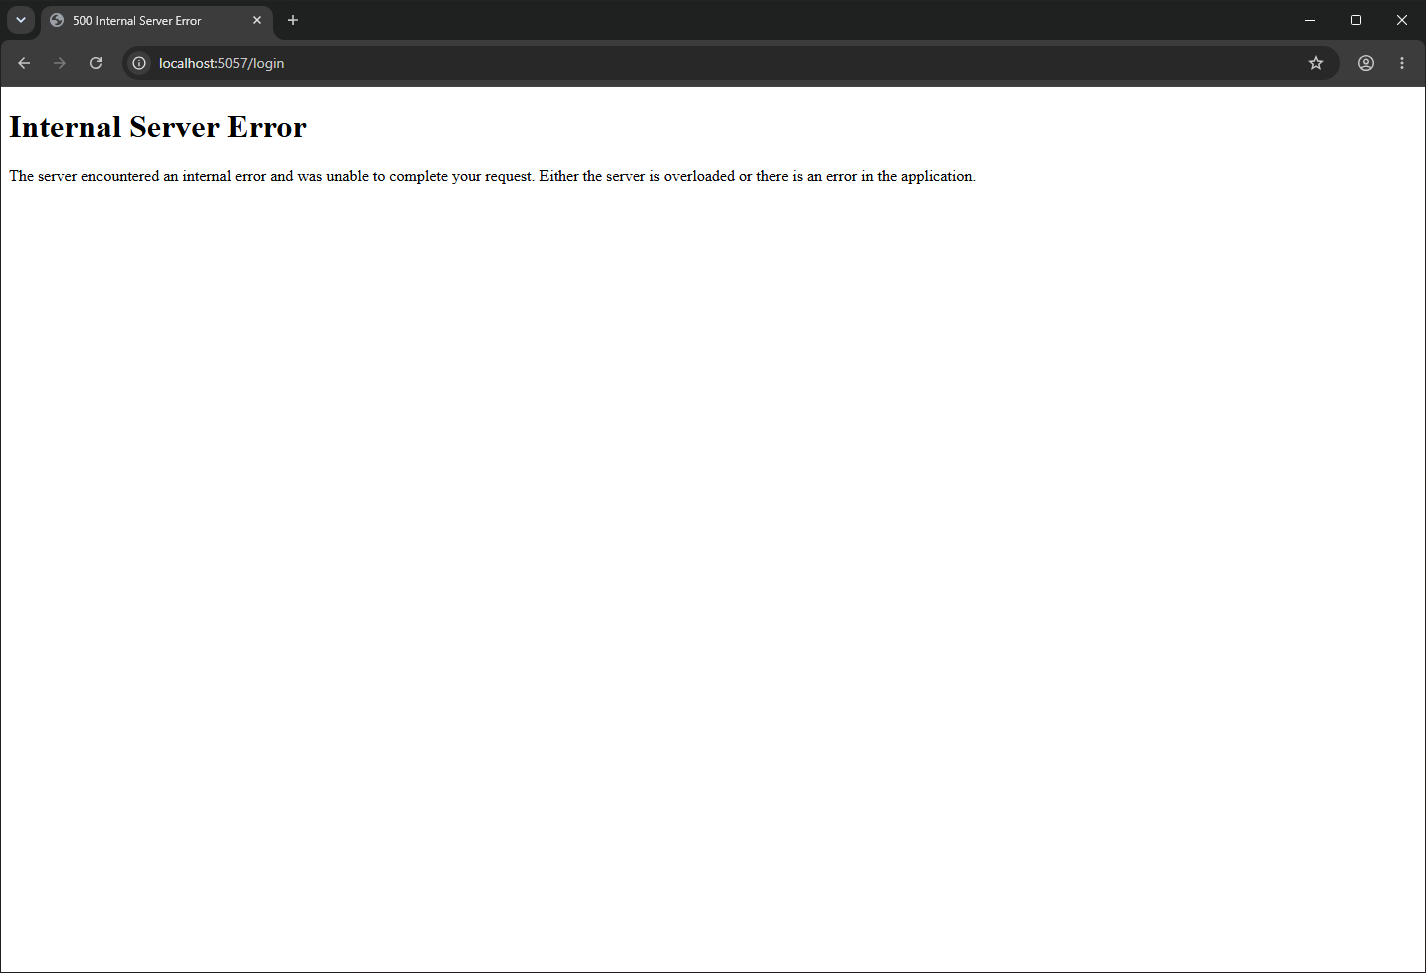
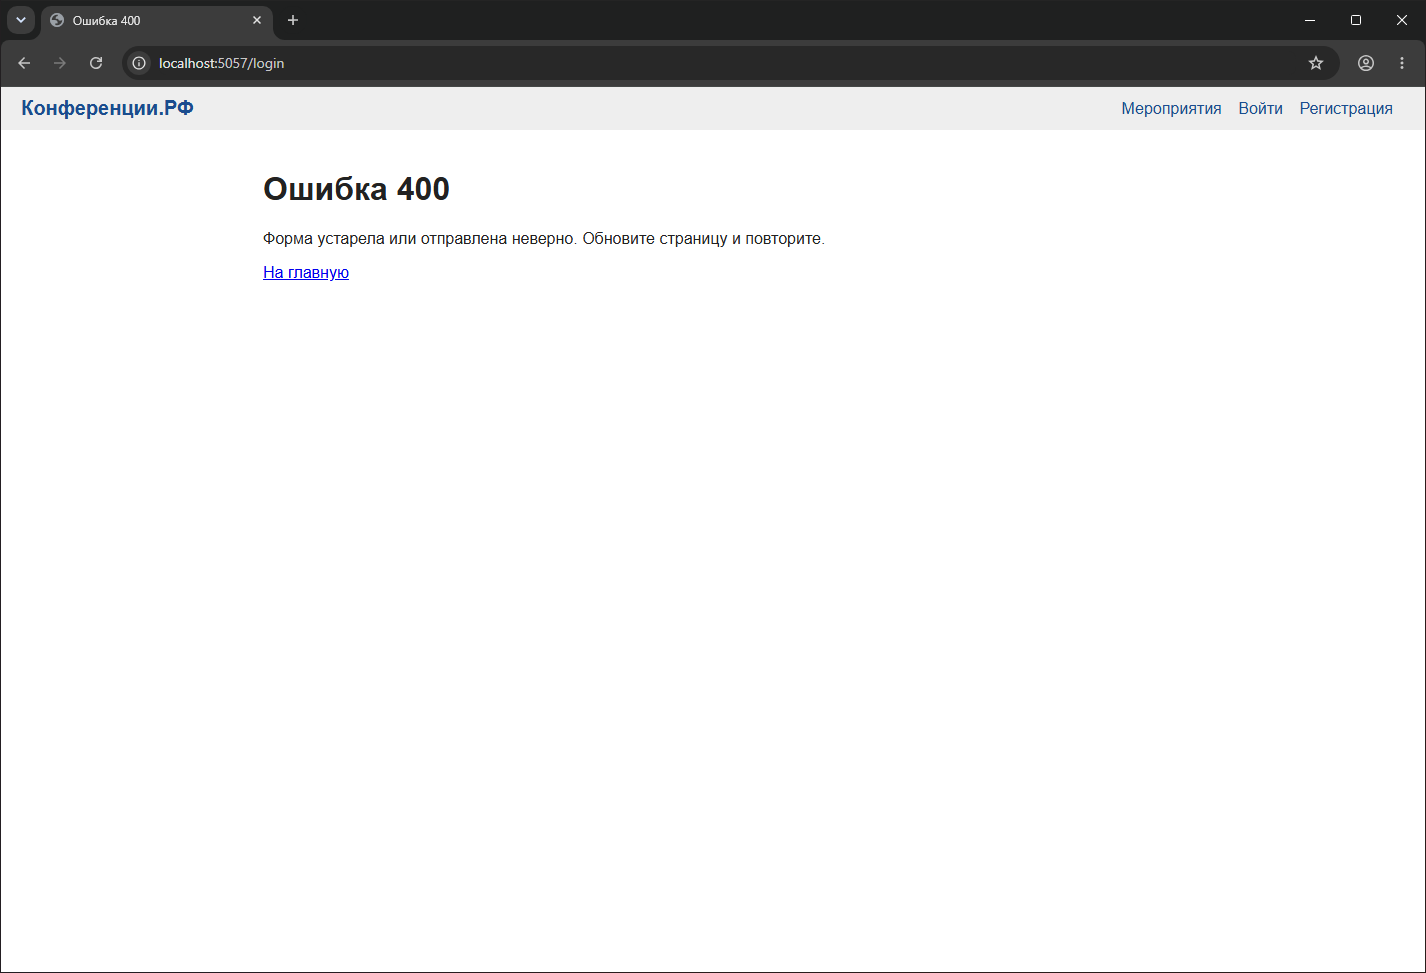
Практика 4: описание и скриншоты

Changed region(s): [[0.0, 0.0925, 0.6788, 0.3083], [0.7714, 0.0925, 0.9874, 0.1233], [0.0617, 0.0, 0.1234, 0.0308]]

diff --git a/Практика 04. Подсистема безопасности ИС/README.md b/Практика 04. Подсистема безопасности ИС/README.md
@@ -1,0 +1,26 @@
+# Практическая работа № 4. Разработка подсистем безопасности ИС
+
+Код подсистемы: `app/security.py`, проверки полей `app/validators.py`, обработчики ошибок в `app/__init__.py`.
+
+| Требование | Как сделано | Скриншот |
+|---|---|---|
+| Хеширование паролей | `generate_password_hash` (scrypt), в базе хранится только хеш | `7_пароли_в_базе_хеш.png` |
+| Защита от SQL-инъекций | все запросы с параметрами `?`, строки в запрос не подставляются | `1_sql_инъекция_во_входе.png` |
+| Права доступа | декораторы `login_required` и `admin_required`; гость уходит на вход, участник получает 403 | `3_участник_не_видит_панель.png` |
+| Проверка данных на сервере | `validators.py`, фильтрация управляющих символов, ограничение длины | тесты |
+| Проверка данных на клиенте | `required`, `minlength`, `maxlength`, `pattern`, `type="email"` в шаблонах | |
+| Защита сессий и cookies | ключ в `instance/secret.key`, cookie `HttpOnly` и `SameSite=Lax`, срок 2 часа | `6_заголовки_и_cookie.png` |
+| Защита форм | токен CSRF в каждой форме, выход только через POST | `2_подделка_токена_csrf.png`, `4_выход_только_через_post.png` |
+| Подбор пароля | после 5 неверных попыток вход блокируется на 10 минут | `5_блокировка_после_5_попыток.png` |
+
+Дополнительно: заголовки `X-Frame-Options`, `X-Content-Type-Options`, `Content-Security-Policy`.
+
+## Ошибки, найденные при проверке
+
+1. Если в настройках не было `SECRET_KEY`, приложение падало при открытии любой страницы с формой: у Flask ключ по умолчанию `None`,
+   а проверка искала только наличие поля. Теперь проверяется значение.
+2. Токен CSRF с русскими буквами давал ошибку 500 вместо 400: `compare_digest` не принимает строки не из ASCII.
+   Теперь сравниваются байты.
+3. Запрос без токена пропускался, если в сессии токена ещё не было (пустая строка равна пустой строке). Теперь такой запрос отклоняется.
+
+Каждая ошибка закрыта тестом в `tests/test_security.py`. Всего 24 теста, результат на `8_тесты.png`.
